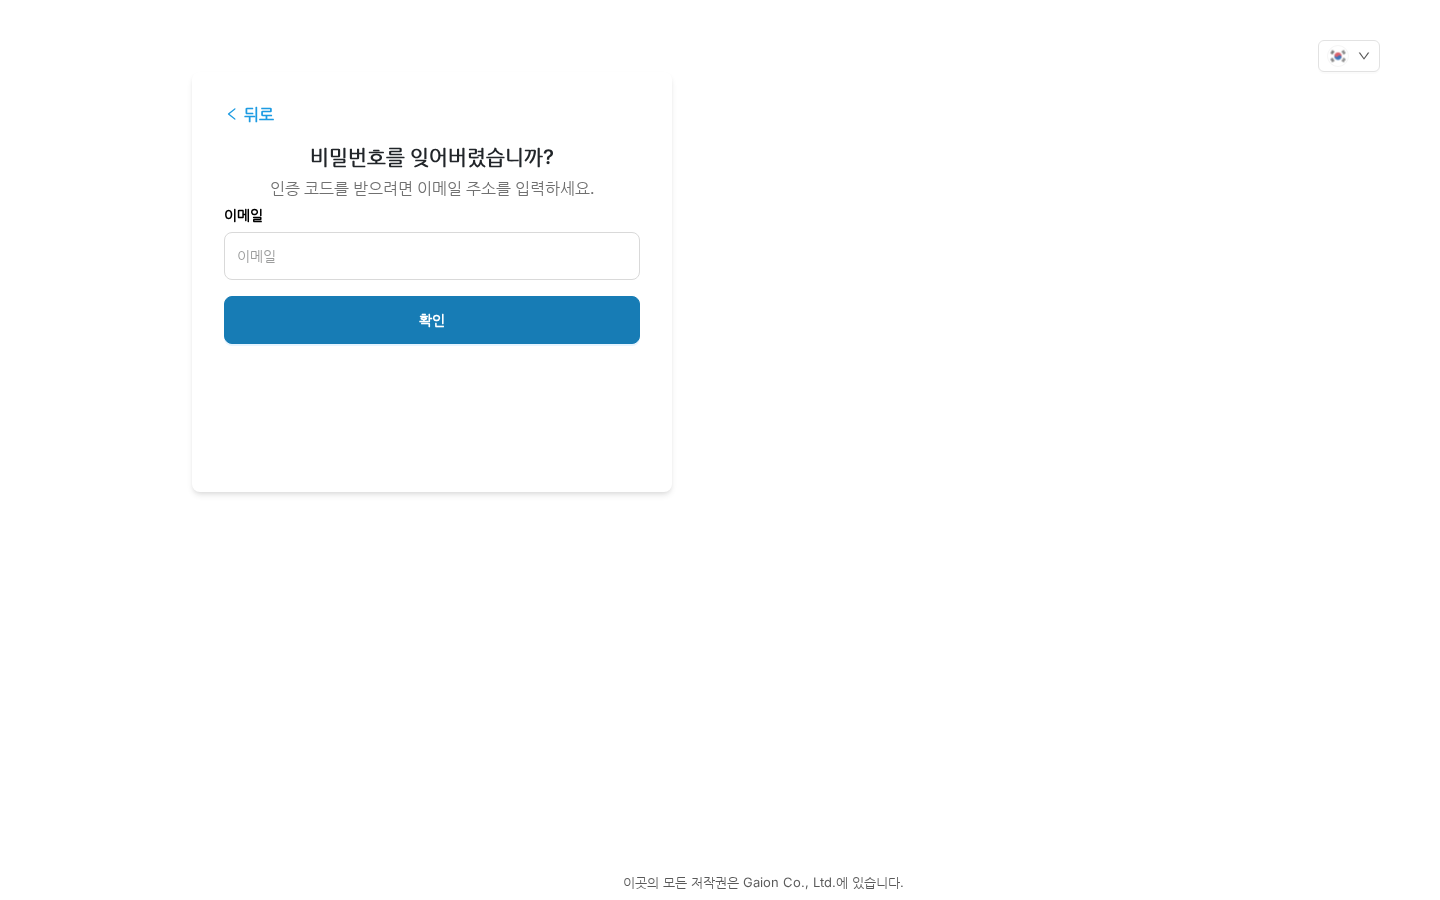
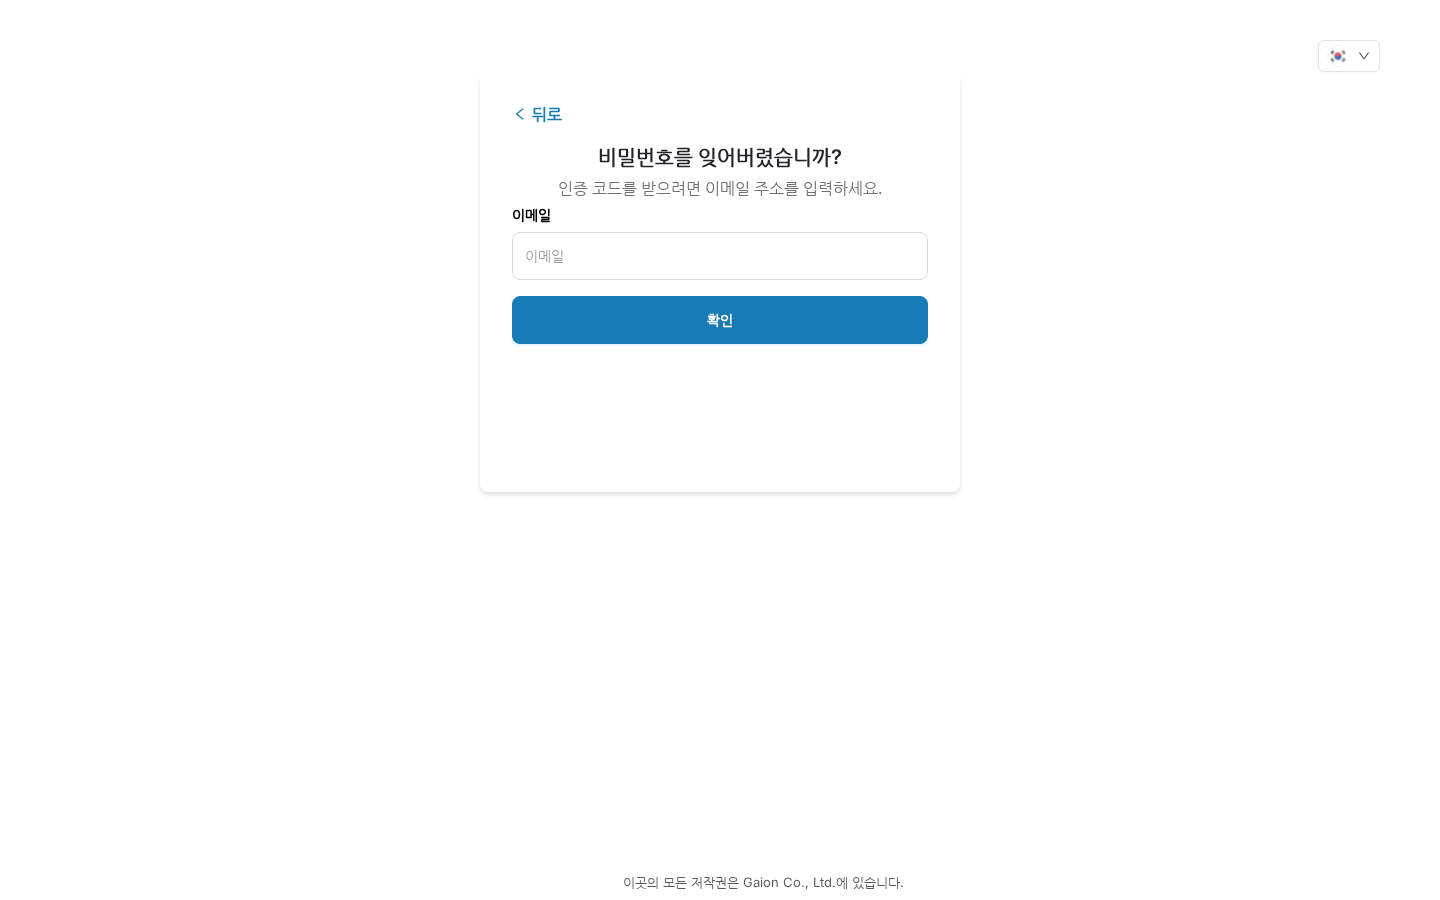
WO-GRDX-20261002-07: AC-2·6 — 비밀번호 찾기의 오류 글씨·뒤로 대비 · 넓은 화면 가운데 축 · 측정 전후 표

diff --git a/frontend/src/features/login/prelogin.css b/frontend/src/features/login/prelogin.css
@@ -85,3 +85,18 @@ html[data-gx-prelogin] .background-login p.text-white {
   color: rgba(0, 0, 0, 0.65) !important;
   font-size: 13px !important;
 }
+
+/* 비밀번호 찾기(인수 rj-core 화면 · 소스 없음) — 오류 글씨는 인라인 `color: rgb(255, 77, 79)`(3.27 : 1),
+   「뒤로」는 #1d9be2(3.07 : 1) [실측 22:2x]. 같은 값으로 덮는다(오류 5.57 · 링크 4.58). */
+html[data-gx-prelogin] .background-login [style*='rgb(255, 77, 79)'] {
+  color: #cf1322 !important;
+  font-size: 13px !important;
+}
+html[data-gx-prelogin] .forgot-password-card .back-button {
+  color: #177cb5 !important;
+}
+@media (min-width: 1200px) {
+  html[data-gx-prelogin] .forgot-password-container {
+    width: 100% !important;
+  }
+}
